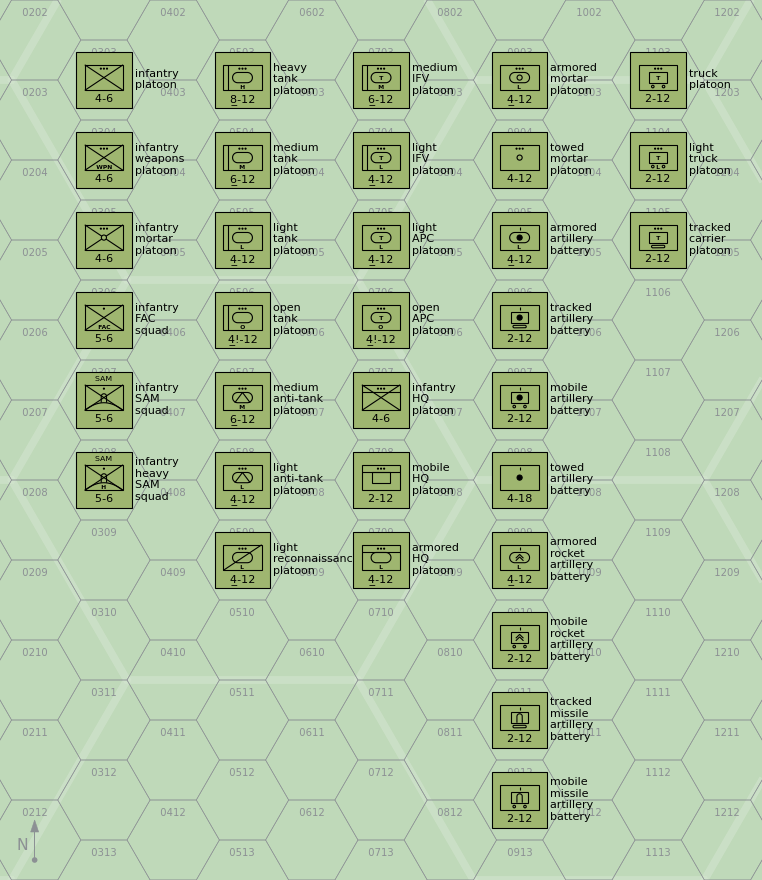
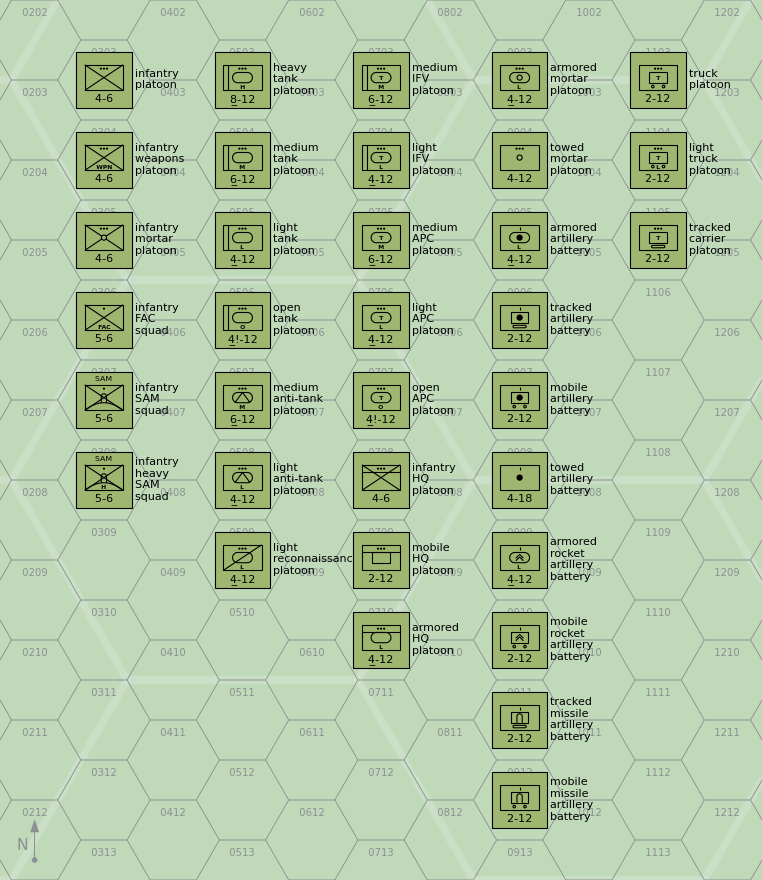
Add Boxer

diff --git a/groundunitdatatables/groundunitdata.tex b/groundunitdatatables/groundunitdata.tex
@@ -281,6 +281,7 @@ These have medium IFVs such as those from Table~\ref{table:vehicle-types}.\textn
         \item The WRG 1950--1985 rules give class IV (i.e., medium) protection to the:
             Marder.
         \item BMP-3: Wikipedia says the BMP-3 has frontal protection from 30~mm rounds at 200~m.
+        \item Boxer: Wikpedia states that with the baseline armor it is protected against medium-caliber rounds. Additional armor is also available.
         \item CV90: Wikipedia states that the CV90 has frontal protection against 30~mm APFSDS rounds. This is considerably more than typical light AFVs.
         \item LAV III (add-on-armor): Wikipedia says the basic version only has protection against small-arms rounds, but an additional armor kit developed in 2009 gives it protection against 30~mm rounds.
         \item M2A2/M2A3/M2A4: Wikipedia states their these M2A2 also has protection against 30 mm APDS rounds and RPGs. The M2A3 and M2A4 have visually similar armor.
@@ -322,6 +323,14 @@ These have light IFVs such as those from Table~\ref{table:vehicle-types}.\textno
 
 % Medium APCs: converted medium tanks.
 
+\paragraph{Medium APC Platoon}
+
+These have medium APCs such as those from Table~\ref{table:vehicle-types}.\textnote{Medium APCs}{
+    Regarding the protection class:
+    \begin{itemize}
+        \item Boxer: Wikpedia states that with the baseline armor it is protected against medium-caliber rounds. Additional armor is also available.
+    \end{itemize}
+}
 \paragraph{Light APC Platoon}
 
 These have light APCs such as those from Table~\ref{table:vehicle-types}.\textnote{Light APCs}{
@@ -638,6 +647,7 @@ These are platoons with tracked carrier vehicles from Table~\ref{table:vehicle-t
             \multicolumn{1}{c}{\bfseries Medium IFVs}\\
             \midrule
             \vehicle{BMP-3}{Soviet Union}{1987}\\
+            \vehicle{Boxer IFV}{Netherlands/Germany}{2011}\\
             \vehicle{CV90}{Sweden}{1994}\\
             \vehicle{LAV III (add-on-armor)}{Canada}{2009}\\
             \vehicle{M2A2 (and later) Bradley}{USA}{1988}\\
@@ -666,6 +676,11 @@ These are platoons with tracked carrier vehicles from Table~\ref{table:vehicle-t
             \vehicle{VCBI}{France}{2008}\\
             \vehicle{Warrior}{UK}{1987}\\
             \vehicle{YPR-765}{Netherlands}{1977}\\
+
+            \midrule
+            \multicolumn{1}{c}{\bfseries Medium APCs}\\
+            \midrule
+            \vehicle{Boxer APC}{Netherlands/Germany}{2011}\\
 
             \midrule
             \multicolumn{1}{c}{\bfseries Light APCs}\\
@@ -808,8 +823,8 @@ These are platoons with tracked carrier vehicles from Table~\ref{table:vehicle-t
         \vehiclecolumnD\\
     \end{tabular}
 
-    % TODO: Boxer
     % TODO: Type 77
+    % TODO: Tpz Fuchs
 
 \end{table*}
 
